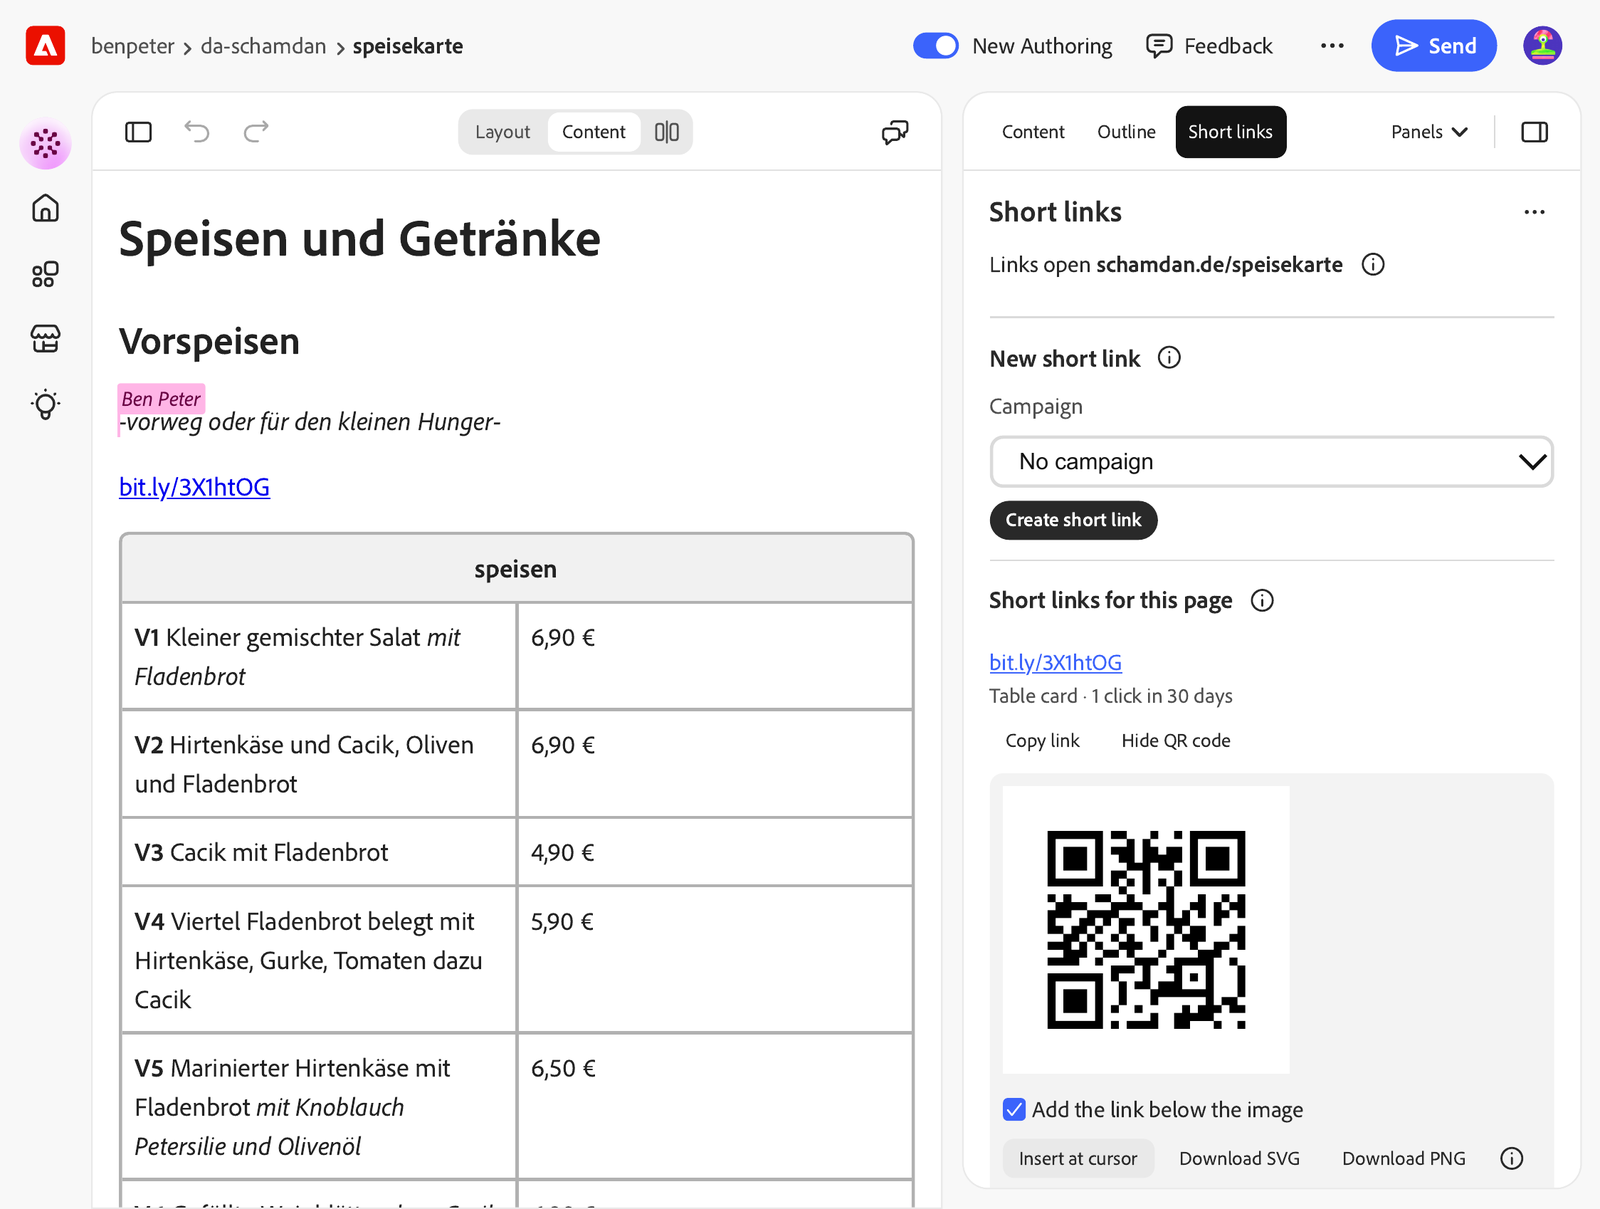
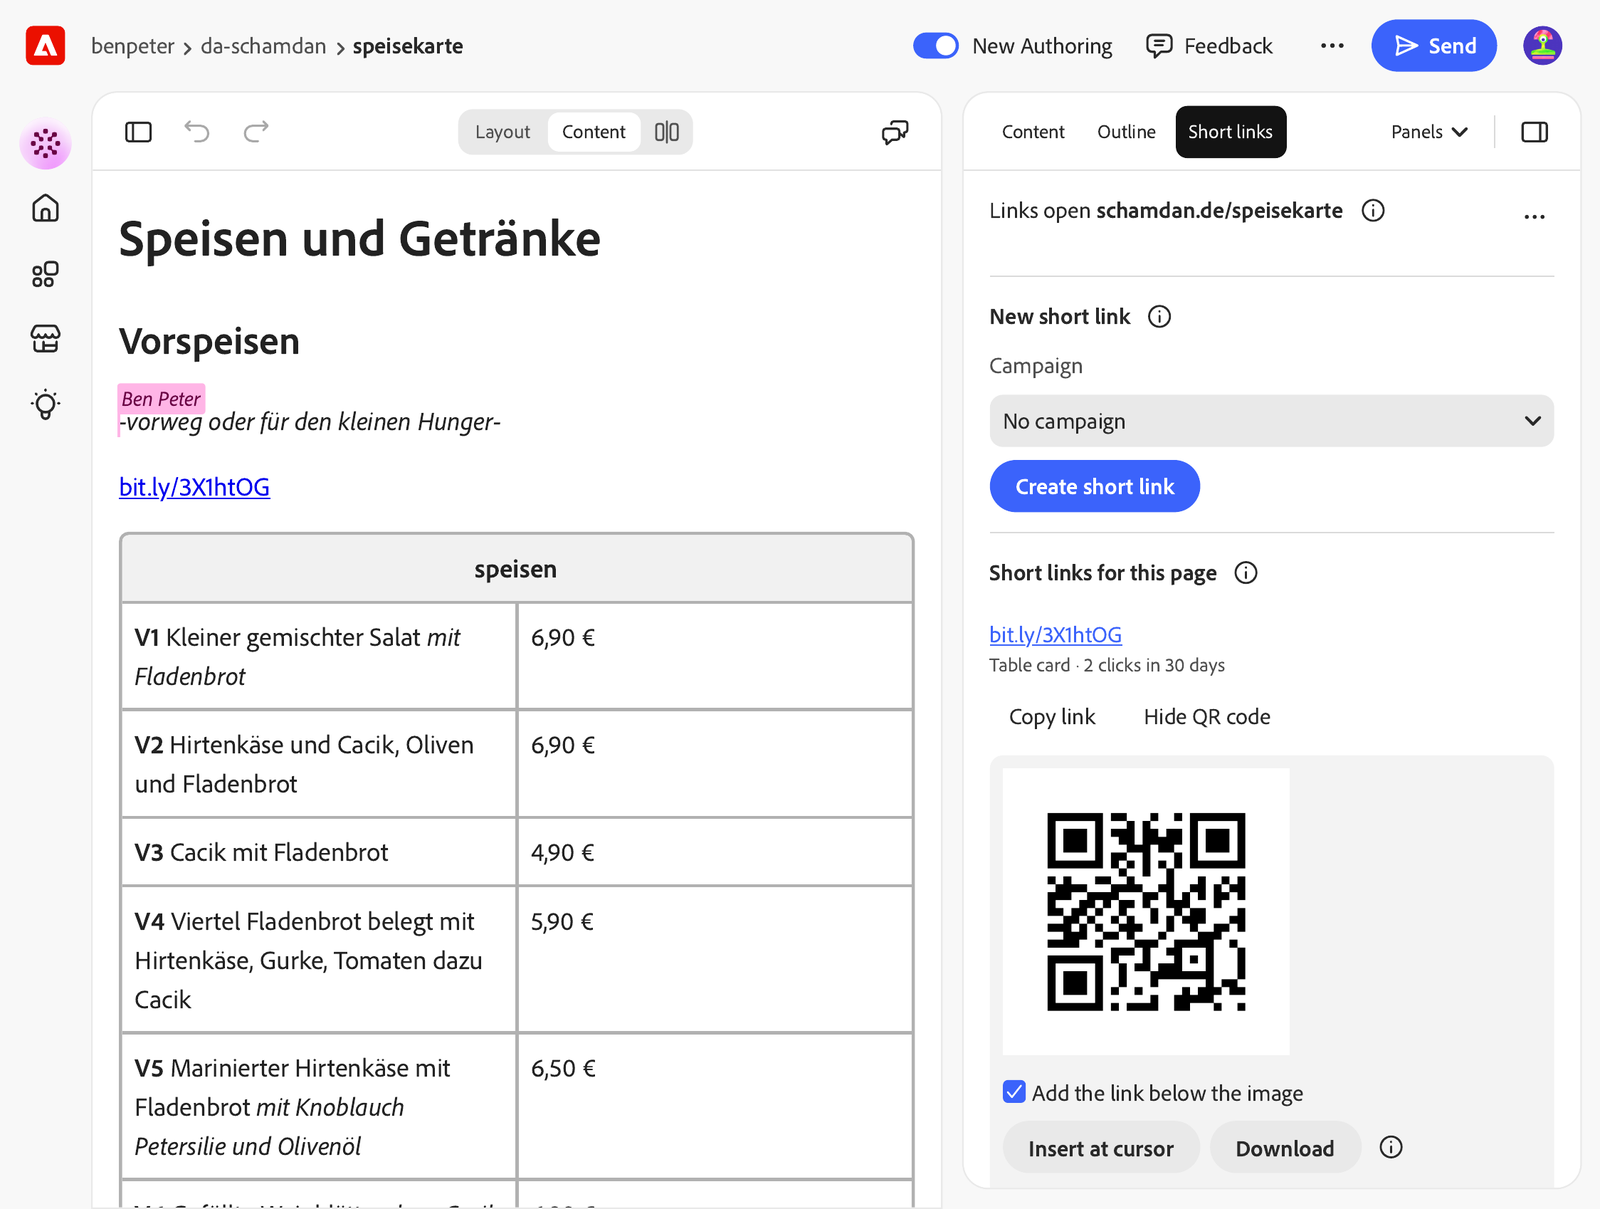
docs: new screenshots after the UX polish, share instead of print

diff --git a/docs/authors.md b/docs/authors.md
@@ -1,8 +1,8 @@
 # Short links: author guide
 
 The Short links panel makes short links and QR codes for the page you are editing.
-Use them for print and social: a QR code on a table card, a flyer or a poster, a
-short link in an Instagram bio or a newsletter. Each link can carry a campaign, so
+Use them where people scan or type a link: a QR code on a table card, a flyer or a
+poster, a short link in an Instagram bio or a newsletter. Each link can carry a campaign, so
 your analytics can tell the table card from the flyer.
 
 The links come from your own [Bitly](https://bitly.com) account. Use a paid Bitly
@@ -31,7 +31,7 @@ The token stays in this browser. On another computer or browser, connect again.
 ## Make a short link
 
 1. Pick a **Campaign**, or leave **No campaign**.
-   - Table card and Flyer are for print, Instagram for social, Newsletter for email.
+   - Each campaign adds its own `utm_source` and `utm_medium` to the link.
 2. Choose **Create short link**.
 
 The new link shows under **Short links for this page** with its campaign. Clicks of
@@ -58,14 +58,14 @@ Then:
   the image as a link. Switch the editor to **Content** (the Layout/Content switch
   above the page) first.
 - **Drag** the QR code into the page, if your Workspace supports it.
-- **Download SVG** for print, or **Download PNG**.
+- **Download** saves the code as SVG (sharp at any size) or PNG.
 
 After inserting, add alt text to the image in the editor.
 
 ## Things to know
 
-- The code opens the published page. Publish the page before you print the code.
-- Pages under `/drafts/` aren't public. The panel shows a warning, because a printed
+- The code opens the published page. Publish the page before you share the code.
+- Pages under `/drafts/` aren't public. The panel shows a warning, because a shared
   code would open an error page.
 
   ![A QR code in a draft page. The panel warns that drafts aren't public.](img/draft-and-insert.png)

diff --git a/README.md b/README.md
@@ -94,7 +94,7 @@ The token is stored per web address, so authors paste it again after the switch.
 - Insert at cursor is tested in the editor's Content view, not in Layout.
 - Pages under `/drafts/` aren't public. The panel shows a warning on these pages but
   still makes links.
-- Authors should publish the page before they print a code.
+- Authors should publish the page before they share a code.
 - The QR image has no alt text. Authors add it in the editor after they insert it.
 - Click counts show for the 10 newest links of a page.
 - The campaigns are fixed:
